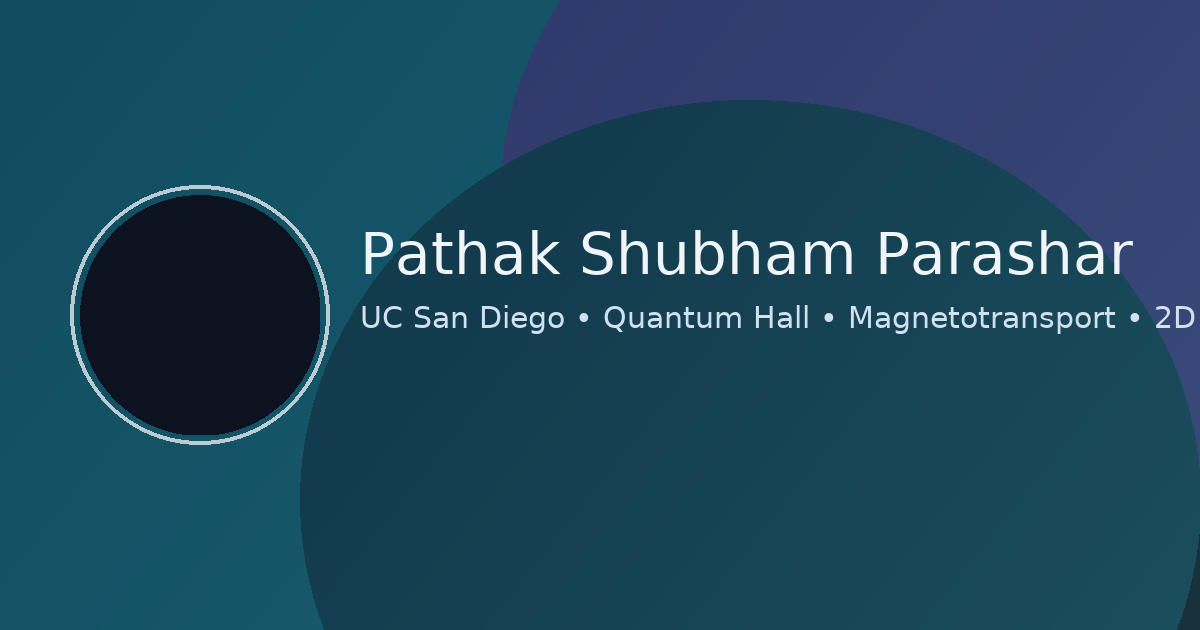
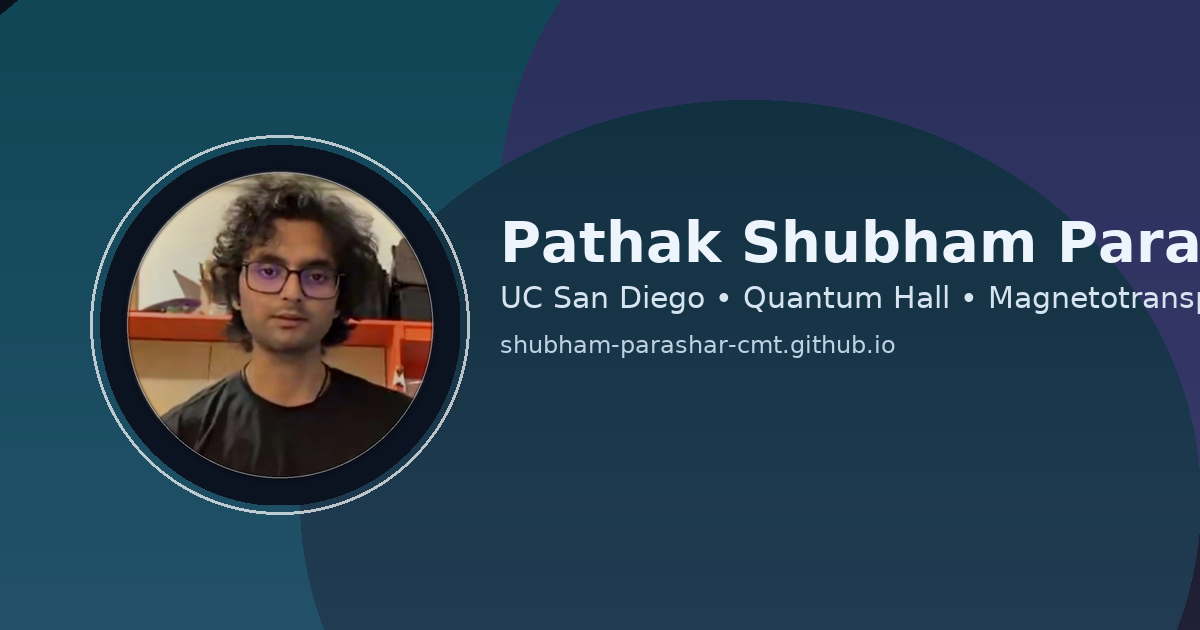
Add files via upload

Changed region(s): [[0.0308, 0.2111, 1.0, 0.8143], [0.925, 0.0, 1.0, 0.0905], [0.0, 0.0, 0.0308, 0.0302]]

diff --git a/cv.html b/cv.html
@@ -1,0 +1,83 @@
+<!DOCTYPE html>
+<html lang="en">
+<head>
+<meta charset="utf-8">
+<meta name="viewport" content="width=device-width, initial-scale=1">
+<title>CV — Pathak Shubham Parashar</title>
+<meta name="color-scheme" content="light dark">
+<style>
+  :root{--fg:#0f172a;--muted:#475569;--line:#e5e7eb;--link:#0ea5e9}
+  @media (prefers-color-scheme: dark){:root{--fg:#e8edf4;--muted:#9fb0c8;--line:#1f2937;--link:#22d3ee}}
+  html,body{margin:0;padding:0}
+  body{font:15px/1.5 ui-sans-serif,system-ui,-apple-system,Segoe UI,Roboto,Ubuntu,Arial,sans-serif;color:var(--fg)}
+  .page{max-width:820px;margin:24px auto;padding:24px}
+  h1{margin:0 0 8px;font-size:28px}
+  h2{margin:18px 0 8px;font-size:18px;border-bottom:1px solid var(--line);padding-bottom:4px}
+  ul{margin:8px 0 0 18px} li{margin:4px 0}
+  .row{display:flex; gap:16px; align-items:center}
+  .avatar{width:84px;height:84px;border-radius:50%;object-fit:cover;border:1px solid var(--line)}
+  .muted{color:var(--muted)}
+  a{color:var(--link);text-decoration:none} a:hover{text-decoration:underline}
+  @media print{
+    @page{margin:14mm}
+    .page{margin:0;padding:0}
+    a::after{content:" (" attr(href) ")"; font-size:12px; color:#555}
+    h2{page-break-after:avoid}
+    section{break-inside: avoid-page}
+  }
+</style>
+</head>
+<body>
+  <div class="page">
+    <header class="row">
+      <img class="avatar" src="nav-avatar.jpg" alt="Portrait of Pathak Shubham Parashar">
+      <div>
+        <h1>Pathak Shubham Parashar</h1>
+        <div class="muted">Department of Physics, UC San Diego</div>
+        <div><a href="mailto:psparash@ucsd.edu">psparash@ucsd.edu</a> · <a href="https://github.com/shubham-parashar-cmt">github.com/shubham-parashar-cmt</a></div>
+        <div><a href="Pathak_Sh_P.vcf" download>vCard</a> · <a href="cv.pdf">PDF</a></div>
+      </div>
+    </header>
+
+    <section>
+      <h2>Research Interests</h2>
+      <ul>
+        <li>Quantum Hall physics in higher Landau levels</li>
+        <li>Magneto-transport in high magnetic fields</li>
+        <li>Itinerant phases in correlated two-dimensional systems</li>
+        <li>In-spiral black hole merger in D &gt; 5 dimensions</li>
+      </ul>
+    </section>
+
+    <section>
+      <h2>Publications (in preparation)</h2>
+      <ul>
+        <li><strong>Hydrodynamic and diffusive magneto-transport near a density perturbation in a two-dimensional electron gas</strong> — P. Shubham Parashar, M. M. Fogler (2025)</li>
+        <li><strong>Imaging diffusive-to-ballistic crossover of magnetotransport in graphene</strong> — Z. J. Krebs, W. A. Behn, K. J. Smith, M. A. Fortman, K. Watanabe, T. Taniguchi, P. S. Parashar, M. M. Fogler, V. W. Brar (2025)</li>
+        <li><strong>Thermodynamics of the spin-splitting transition in quantum Hall effect</strong> — P. S. Parashar, D. P. Arovas, M. M. Fogler (2025)</li>
+        <li><strong>Symplectic ferromagnetism and phase transitions in multi-component fermionic systems</strong> — Z. Cai, P. S. Parashar, C. Wu (2025)</li>
+      </ul>
+    </section>
+
+    <section>
+      <h2>Talks & Presentations</h2>
+      <ul>
+        <li>Spin-split collapse in higher Landau levels — UC San Diego (2023)</li>
+        <li>Vorticity patterns — Columbia University, NY (2022)</li>
+        <li>Magneto-transport across local inhomogeneities — APS March Meeting (2020)</li>
+        <li>Non-associative operators inspired from string theory — APS March Meeting (2019)</li>
+        <li>Quantum double models in icosahedral structures — UC Irvine (2018)</li>
+      </ul>
+    </section>
+
+    <section>
+      <h2>Awards & Grants</h2>
+      <ul>
+        <li><strong>Bhadra Fellowship</strong> (2025)</li>
+        <li><strong>NSF Grant</strong> (2018–2020)</li>
+        <li><strong>UCSD Scholar's grant</strong> (2017)</li>
+      </ul>
+    </section>
+  </div>
+</body>
+</html>
